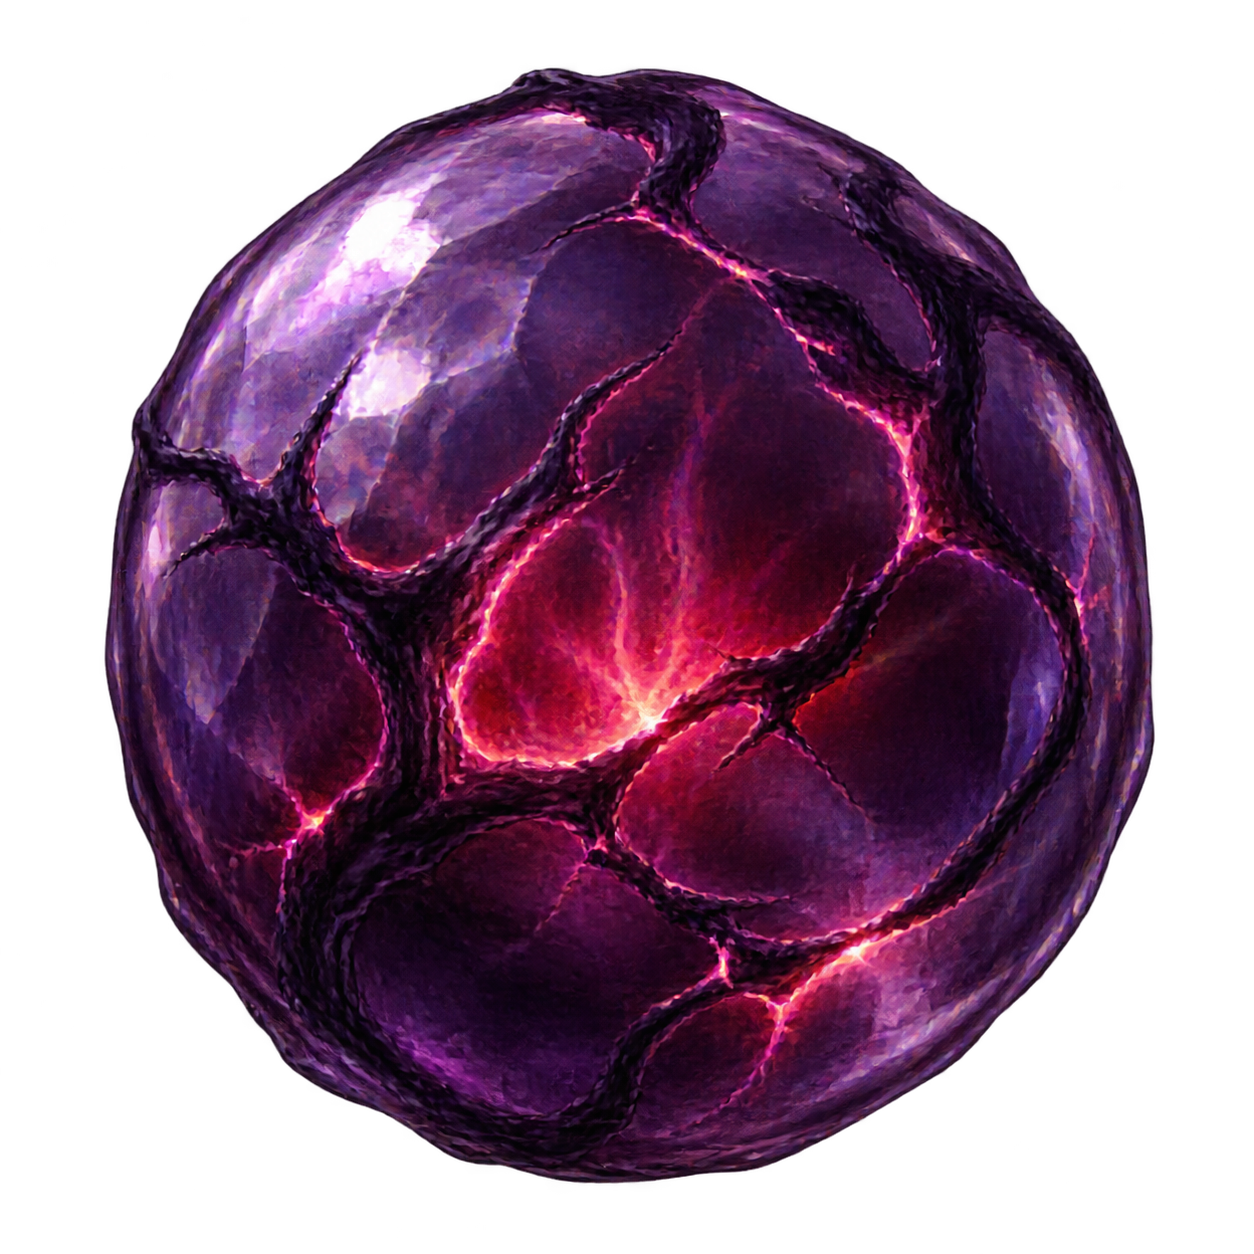
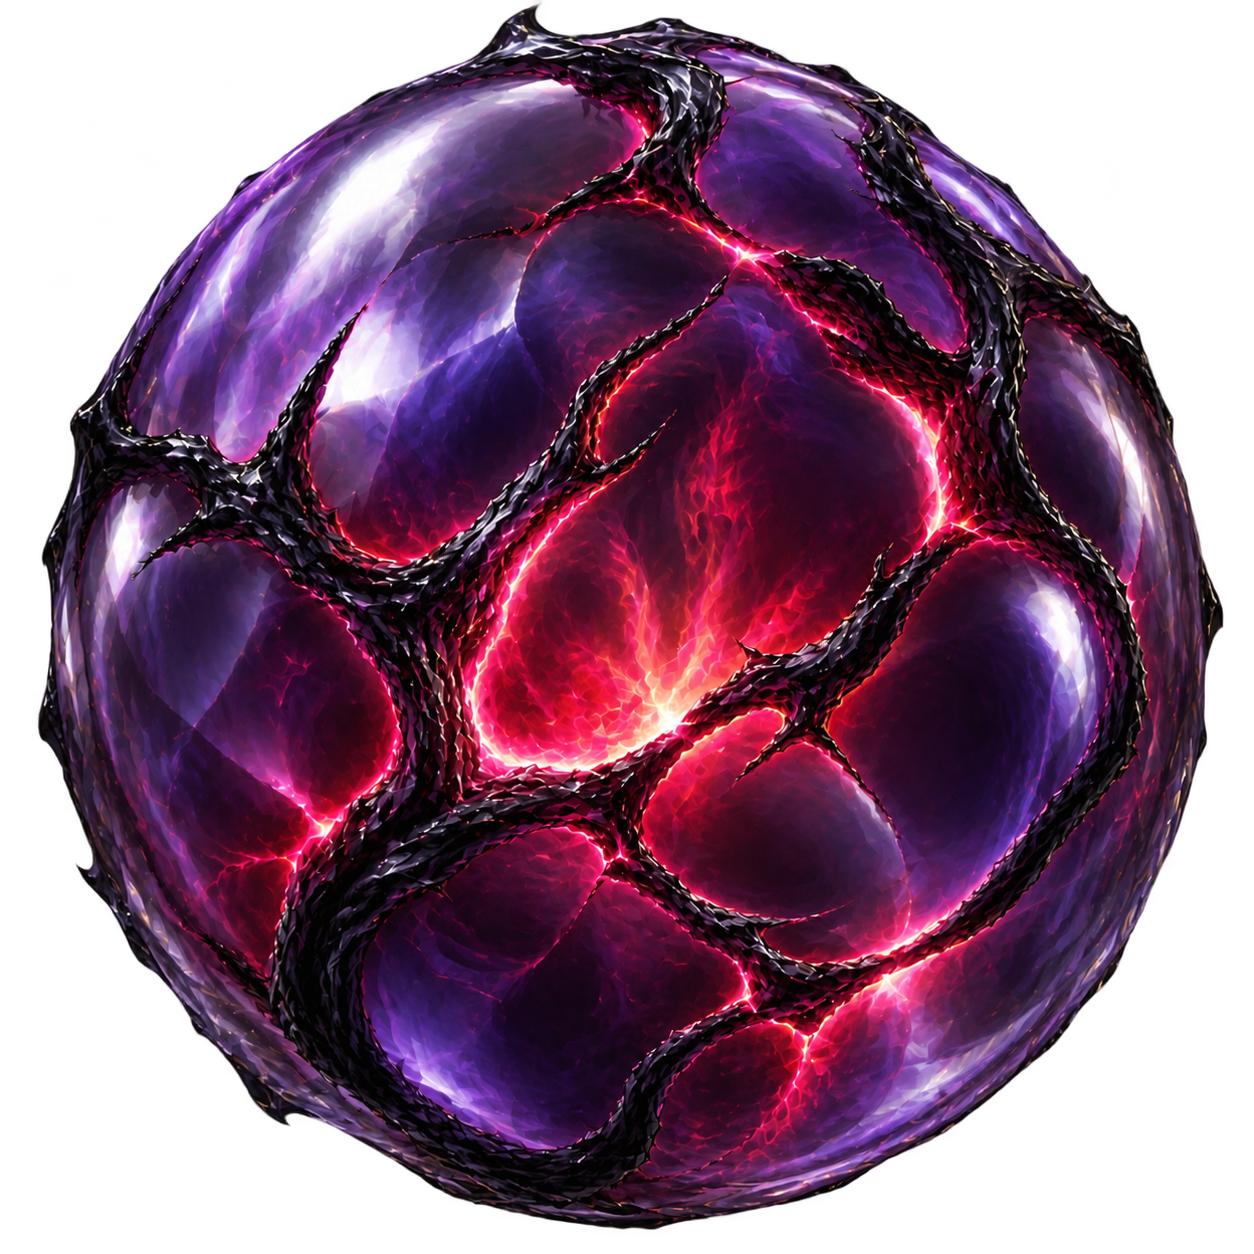
Ashen Fantasy v0.8.1: hide scrollbars
Scrollbars are hidden across the whole app: the main content pane, root roll
list, root detail and index, event log, loot log, equipment doll, bag panel,
bag grid, and the username screen.

Covered for all three engines (WebKit/Blink, Firefox, legacy Edge) while
scrolling itself keeps working via wheel, touch, drag, and keyboard (Tab /
arrows / Page Up-Down / Home-End). The 2px scrollbar-compensating padding on
the roll list is gone now that no bar is drawn.

Also refreshes the Corrupted Beast Core art (the Epic drop of the Rabid Boar).

Five regression tests added: each engine's rule is present, the 11
overflow-y: auto declarations survive, and the compensating padding is gone.

144 tests passing (51 API + 93 client).

diff --git a/public/css/style.css b/public/css/style.css
@@ -11,6 +11,11 @@
   --line: #3a3226;
 }
 * { box-sizing: border-box; }
+/* Hide scrollbars everywhere while keeping scroll, wheel, touch, keyboard
+   (Tab / arrow keys / Page Up-Down / Home-End) working. Covers all three
+   engines: WebKit/Blink, Firefox (scrollbar-width), legacy Edge (ms). */
+* { scrollbar-width: none; -ms-overflow-style: none; }
+*::-webkit-scrollbar { display: none; width: 0; height: 0; }
 html, body { height: 100%; }
 body {
   margin: 0; background: var(--bg); color: var(--ink);
@@ -68,7 +73,7 @@ input { background: #0e0e14; border: 1px solid var(--line); color: var(--ink); p
 .roll-anim.rolling { animation: flicker .12s infinite; color: var(--gold2); }
 @keyframes flicker { 0% {opacity:.4; transform:translateY(-1px);} 50% {opacity:1;} 100% {opacity:.6; transform:translateY(1px);} }
 .roll-anim .big-root { font-size: 26px; display: block; margin-bottom: 6px; }
-.roll-list { display: flex; flex-direction: column; gap: 6px; flex: 1; min-height: 0; overflow-y: auto; padding-right: 2px; }
+.roll-list { display: flex; flex-direction: column; gap: 6px; flex: 1; min-height: 0; overflow-y: auto; }
 .roll-row { display: flex; justify-content: space-between; align-items: center; border: 1px solid var(--line); padding: 8px 10px; cursor: pointer; background: var(--panel2); border-left-width: 5px; }
 .roll-row:hover { border-color: var(--gold); }
 .roll-row.selected { outline: 1px solid var(--gold); background: #26200f; }

diff --git a/tests/test_client.js b/tests/test_client.js
@@ -478,6 +478,16 @@ state.player = basePlayer();
   ok(/it\.kind === "material" \? ` title=/.test(SRC) === false, "no native title tooltip left in the bag");
   ok(/data-item="\$\{id\}" data-tip="\$\{id\}"/.test(SRC), "every bag slot carries data-tip");
 
+  // ============ 14. scrollbars hidden, scrolling kept ============
+  const CSS = fs.readFileSync(path.join(__dirname, "..", "public", "css", "style.css"), "utf8").replace(/\r\n/g, "\n");
+  ok(/\*\s*::-webkit-scrollbar\s*\{[^}]*display:\s*none/.test(CSS), "scrollbar hidden for WebKit/Blink");
+  ok(/scrollbar-width:\s*none/.test(CSS), "scrollbar hidden for Firefox");
+  ok(/-ms-overflow-style:\s*none/.test(CSS), "scrollbar hidden for legacy Edge");
+  // Hiding the chrome must not disable scrolling itself.
+  const scrollers = CSS.split("\n").filter(l => /overflow-y:\s*auto|overflow:\s*auto/.test(l));
+  ok(scrollers.length >= 8, "scroll containers still declare overflow-y: auto (" + scrollers.length + " found)");
+  ok(!/padding-right:\s*2px/.test(CSS), "scrollbar-compensating padding removed");
+
   console.log("\n" + pass + " passed, " + fail + " failed");
   process.exit(fail ? 1 : 0);
 })().catch(e => { console.error(e); process.exit(1); });

diff --git a/public/index.html b/public/index.html
@@ -75,7 +75,7 @@
         <button data-tab="cultivate" class="side-btn active">Cultivate</button>
         <button data-tab="battle" class="side-btn">Battle</button>
         <button data-tab="inventory" class="side-btn">Inventory</button>
-        <div class="side-foot">Ashen Fantasy v0.8.0</div>
+        <div class="side-foot">Ashen Fantasy v0.8.1</div>
       </nav>
       <main class="content">
         <div id="tab-cultivate" class="tab active">

diff --git a/public/js/app.js b/public/js/app.js
@@ -1,6 +1,6 @@
 /* Ashen Fantasy — vanilla JS state machine: username -> roots -> main */
 const $ = (id) => document.getElementById(id);
-const CLIENT_VERSION = "0.8.0"; // must match server.py server_version + footer
+const CLIENT_VERSION = "0.8.1"; // must match server.py server_version + footer
 const state = {
   username: localStorage.getItem("af_user") || "",
   rollId: null,

diff --git a/server.py b/server.py
@@ -549,7 +549,7 @@ def build_player(username, picks):
 
 
 class Handler(BaseHTTPRequestHandler):
-    server_version = "AshenFantasy/0.8.0"
+    server_version = "AshenFantasy/0.8.1"
 
     def log_message(self, fmt, *args):
         pass  # quiet

diff --git a/CHANGELOG.md b/CHANGELOG.md
@@ -11,6 +11,16 @@ and push to `main` on https://github.com/itzRealEzra/ashen-fantasy.
 
 ## [Unreleased]
 
+## [0.8.1] - 2026-10-16
+### Changed
+- Scrollbars are hidden across the whole app (all 10 scroll containers: the
+  main content pane, root roll list, root detail and index, event log, loot
+  log, equipment doll, bag panel, bag grid, and the username screen). Covered
+  for all three engines — WebKit/Blink, Firefox, and legacy Edge — while
+  scrolling itself still works via wheel, touch, drag, and keyboard
+  (Tab / arrows / Page Up-Down / Home-End). The 2px scrollbar-compensating
+  padding on the roll list is gone now that no bar is drawn.
+
 ## [0.8.0] - 2026-10-16
 ### Added
 - **Item rarity ladder: Common → Uncommon → Rare → Epic → Legendary → Mythic**,
